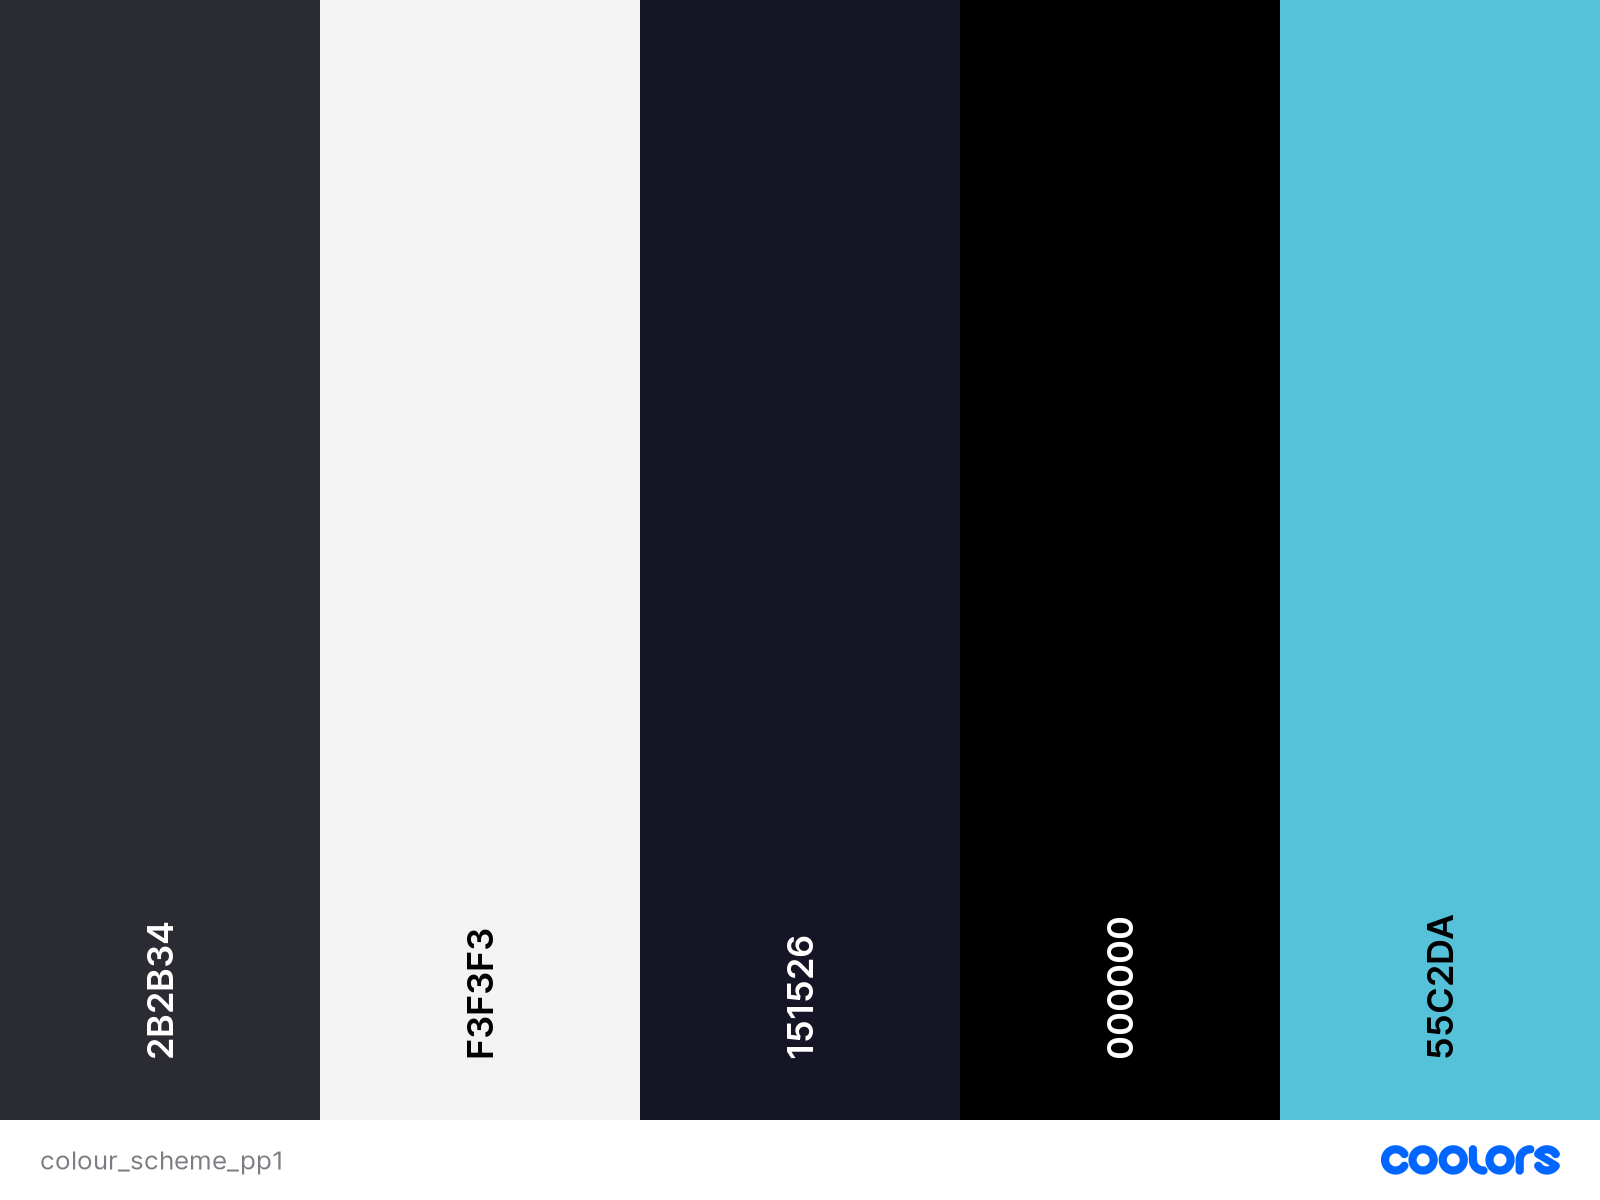
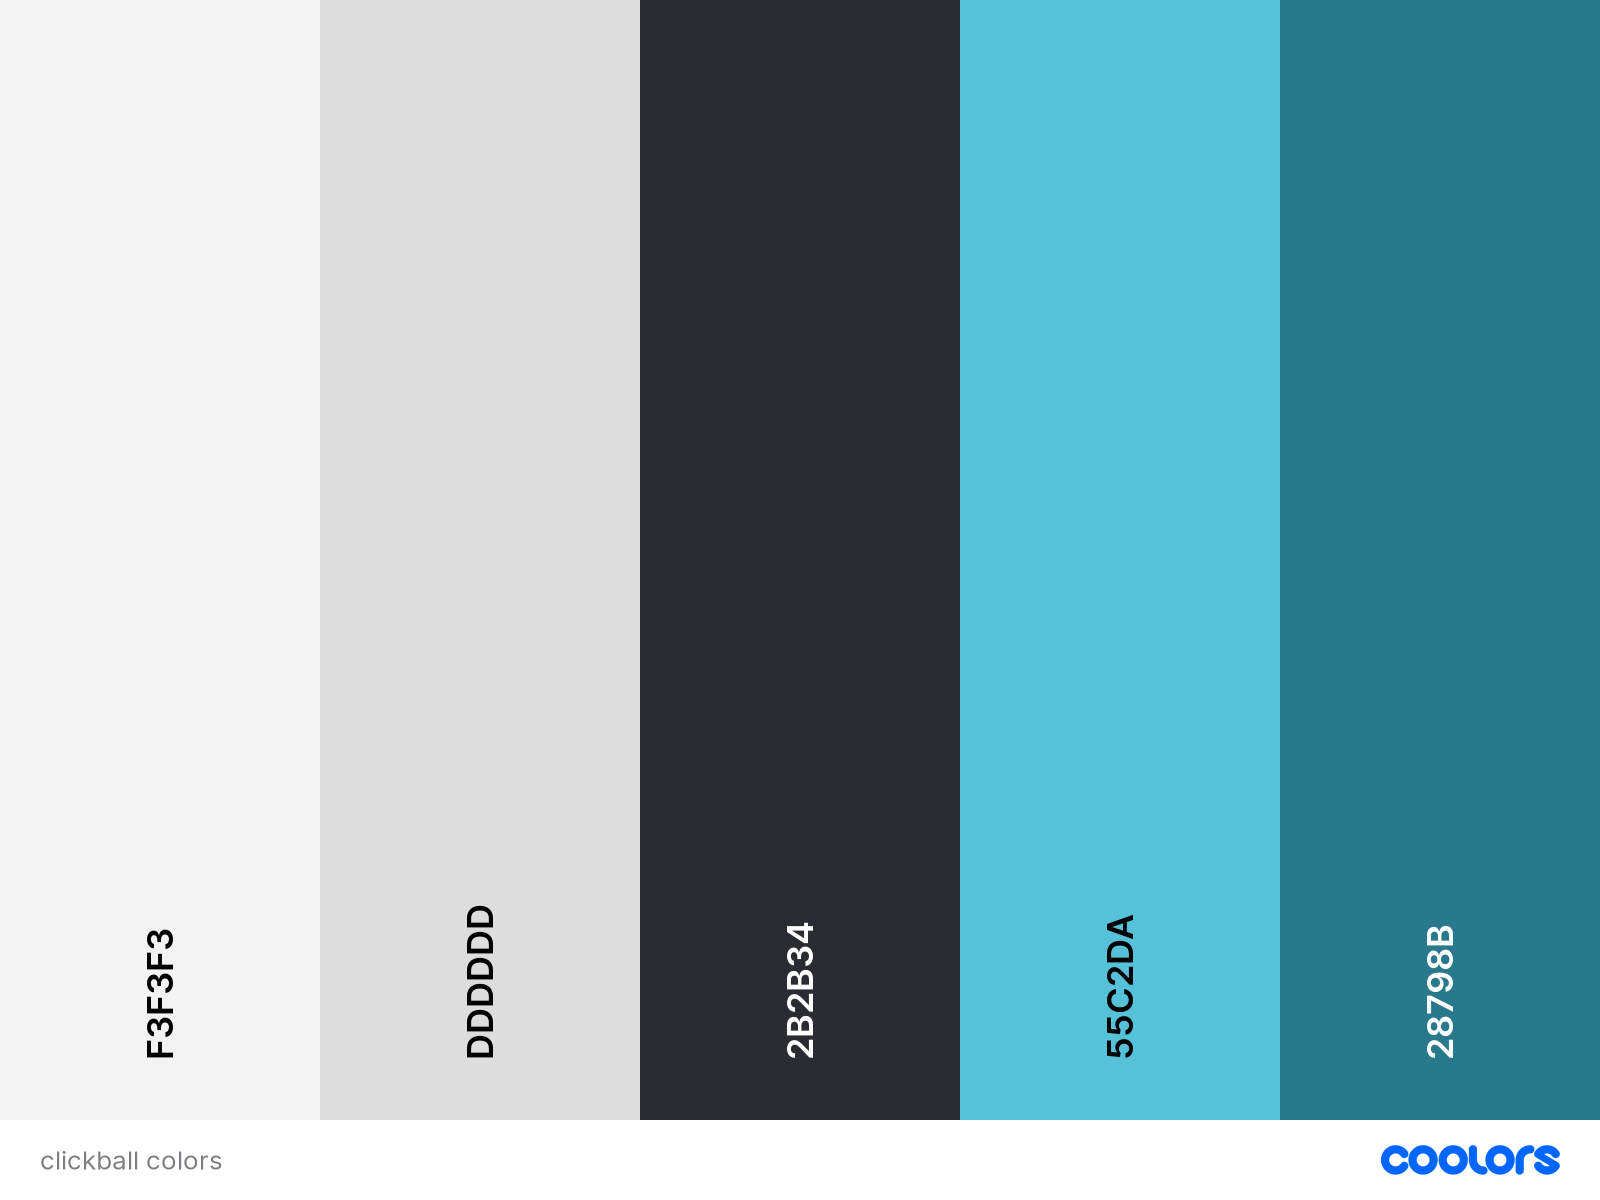
doc: update color scheme in readme

diff --git a/README.md b/README.md
@@ -20,11 +20,14 @@ UX research practices werent in the scope of this project.
 ### Colour Scheme
 The Colour Scheme for this Project was extracted from it's [hero image](#tabletennis-vs-pingpong). The blue tones work nicely together with most Table Tennis related Pictures because of the blue color of official Table Tennis tables.
 
-- `#2B2B34` used for darker backgrounds.
-- `#F3F3F3` used for text bubbles
-- `#151536` used for the footer.
-- `#000000` used for primary text.
-- `#55C2DA` used for primary highlights.
+- #FFFFFF used for white background
+- #F3F3F3 used for light background
+- #DDDDDD used for secondary light background
+- #2B2B34 used for dark background
+- #55C2DA used for primary highlights
+- #28798B used for secondary hightlights
+- #000000 used for primary text
+- #FFFFFF used for secondary text
 
 I used [coolors.co](https://coolors.co/2b2b34-f3f3f3-151526-000000-55c2da) to generate my colour palette.
 
